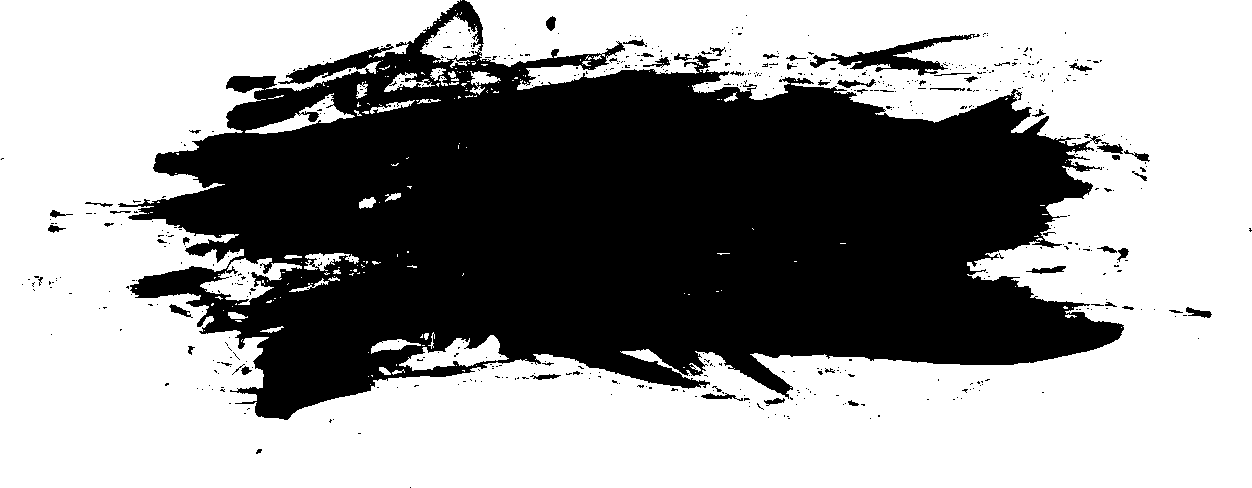
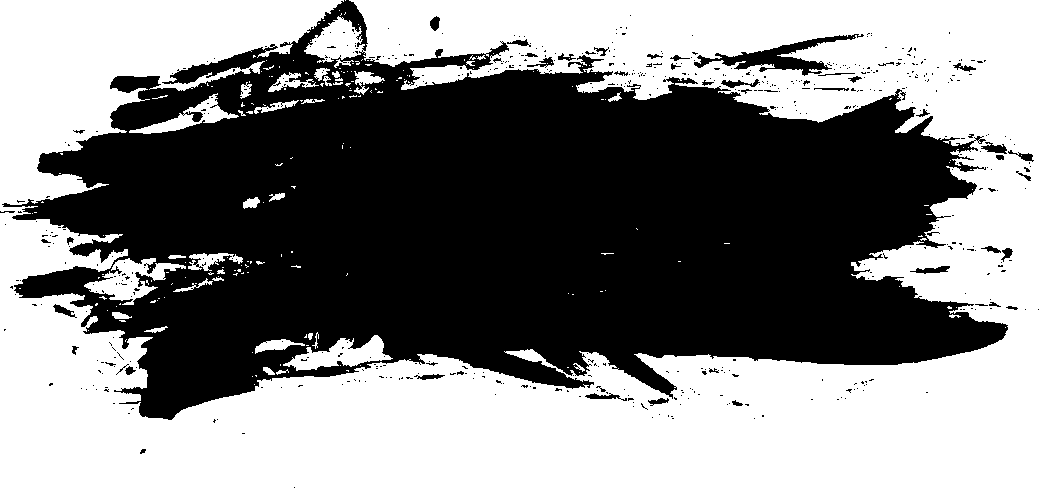
Add github and linkedin links

diff --git a/assets/stylesheets/index.css b/assets/stylesheets/index.css
@@ -1,31 +1,32 @@
-body {
-    margin: 0;
-    width: 100%;
-    height: 100vh;
-    font-family: 'Titillium Web', sans-serif;
-    color: #fff;
-    background: linear-gradient(-45deg, #ee7752, #e73c7e, #23a6d5, #23d5ab);
-    background-size: 400% 400%;
-    animation: gradientBG 15s ease infinite;
-}
-
-@keyframes gradientBG {
-    0% {
-        background-position: 0% 50%;
-    }
-    50% {
-        background-position: 100% 50%;
-    }
-    100% {
-        background-position: 0% 50%;
-    }
-}
+@import url(https://fonts.googleapis.com/css?family=PT+Sans);
 
 main {
     position: relative;
     height: 100vh;
     display: flex;
     justify-content: center;    
+}
+
+.link {
+  display: block;
+  cursor: pointer;
+  width: 100px;
+  height: 100px;
+  position: absolute;
+}
+
+.github {        
+  left: 133px;
+  top: 86px;
+}
+
+.linkedin {
+  font-family: "Arial"; 
+  left: 303px;
+  top: 291px;
+  font-size: 2.5em;
+  font-weight: 900;
+  color: white; 
 }
 
 .abacus-frame {
@@ -44,23 +45,38 @@ main {
         -ms-transform: translateY(-50%);
          -o-transform: translateY(-50%);
             transform: translateY(-50%);
+  animation-duration: 3s;
+  animation-name: slidein;
+}
+
+@keyframes slidein {
+  from {
+    right: -300px;
+  }
+
+  to {
+    right: 0;
+  }
 }
 
 .highlight {
     font-size: 15em;
     background: url(../images/brush-stroke.png);    
     background-repeat: no-repeat;
-    background-size: 100% 95%;
-    padding: 8px 0;
-    animation-name: brushstroke;
-    animation-duration: 4s;
+    background-size: 100% 100%;
+    padding: 8px 0;        
+    -webkit-animation: brushstroke 1.6s ease-in-out alternate;
+    -moz-animation: brushstroke 1.6s ease-in-out alternatee;
+    animation: brushstroke 1.6s ease-in-out alternate;
+    /* -webkit-animation: bigcircle 1.6s ease-in-out alternate;
+  -moz-animation: bigcircle 1.6s ease-in-out alternatee;
+  animation: bigcircle 1.6s ease-in-out alternate; */
 }
 
 @keyframes brushstroke {
-  0%   {background-size: 0 0;}
-  25%  {background-size: 25% 25%;}
-  50%  {background-size: 50% 50%;}
-  100% {background-size: 100% 95%;}
+  0%   {background-size: 0 0;}  
+  50%  {background-size: 0 0;}  
+  100% {background-size: 100% 100%;}
 }
 
 .big-circles {
@@ -93,10 +109,18 @@ main {
   opacity: 0.75;
 }
 
-.big-circle:nth-child(2) {
-  display: block;
+.big-circle:nth-child(2) {  
   top: 65%;
   left: 65%;
+  cursor: pointer;
+  opacity: 0.75;
+}
+
+.big-circle:nth-child(3) {  
+  top: 37%;
+  left: 63%;
+  width: 150px;
+  height: 150px;
   cursor: pointer;
   opacity: 0.75;
 }
@@ -132,7 +156,7 @@ main {
 }
 
 .big-cirlce-free-mode, .big-cicle-challenge {
-  position: relative;
+  position: relative;  
 }
 
 .big-cicle-challenge span {
@@ -140,6 +164,10 @@ main {
   font-size: 2.5em;
   top: 75px;
   left: 225px;
+  -webkit-animation: bigcircle 1.6s ease-in-out alternate;
+  -moz-animation: bigcircle 1.6s ease-in-out alternatee;
+  animation: bigcircle 1.6s ease-in-out alternate; 
+  cursor: pointer; 
 }
 
 .big-circle-free-mode span {
@@ -147,5 +175,9 @@ main {
   font-size: 2em;
   top: 72px;
   left: 25px;
+  -webkit-animation: bigcircle 1.6s ease-in-out alternate;
+  -moz-animation: bigcircle 1.6s ease-in-out alternatee;
+  animation: bigcircle 1.6s ease-in-out alternate;
+  cursor: pointer;
 }
 

diff --git a/assets/stylesheets/abacus.css b/assets/stylesheets/abacus.css
@@ -17,13 +17,25 @@
   text-align: center;
 }
 
+#abacus-holder {
+  position: relative;
+  height: 600px;
+}
+
+#sum-holder {
+  top: 84px;
+  height: 29px;
+  position: absolute;
+  right: 0;
+}
+
 #abacus {
   height: 449px;
   width: 1248px;
   border: 17px solid wheat;
   margin: auto;
   position: absolute;
-  top: 0;
+  top: 114px;
   left: 0;
   bottom: 0;
   right: 0;
@@ -33,10 +45,8 @@
   width: 1248px;
   margin: auto;
   position: absolute;
-  top: 550px;
-  /* right: 0; */
-  bottom: 0;
-  /* left: 0; */
+  top: 650px;  
+  bottom: 0;  
   padding: 0 30px;
   font-size: 2em;
 }
@@ -99,4 +109,72 @@
   padding-top: 7px;
   margin-left: -20px;
   border: 1px solid grey;
+}
+
+#reset {  
+  padding: 15px 25px;
+  font-size: 24px;
+  text-align: center;
+  cursor: pointer;
+  outline: none;
+  color: #fff;
+  background-color: wheat;
+  border: none;
+  border-radius: 15px 15px 0 0;
+  
+}
+
+#reset:hover {background-color: wheat}
+
+#reset:active {
+  background-color: wheat;
+  transform:translateY(4px);
+}
+
+.tooltip {    
+    position:relative;    
+}
+
+.tooltip .left {
+    min-width:200px; 
+    top:0;
+    right:5%;
+    margin-right:20px;   
+    padding:10px 20px;
+    color:#444444;
+    background-color:#EEEEEE;
+    font-weight:normal;
+    font-size:13px;
+    border-radius:8px;
+    position:absolute;
+    z-index:99999999;
+    box-sizing:border-box;
+    box-shadow:0 1px 8px rgba(0,0,0,0.5);
+    visibility:hidden; opacity:0; transition:opacity 0.8s;
+}
+
+.tooltip:hover .left {
+    visibility:visible; opacity:1;
+}
+
+.tooltip .left i {
+    position:absolute;
+    top:50%;
+    left:100%;
+    margin-top:-12px;
+    width:12px;
+    height:24px;
+    overflow:hidden;
+}
+
+.tooltip .left i::after {
+    content:'';
+    position:absolute;
+    width:12px;
+    height:12px;
+    left:0;
+    top:50%;
+    transform:translate(-50%,-50%) rotate(-45deg);
+    background-color:#EEEEEE;
+    box-shadow:0 1px 8px rgba(0,0,0,0.5);
 }

diff --git a/index.html b/index.html
@@ -3,26 +3,20 @@
   <head>
     <meta charset="utf-8" />
     <title>Abacus Fun</title>
-    <link
-      href="https://fonts.googleapis.com/css?family=Titillium+Web"
-      rel="stylesheet"
-    />
-    <link
-      rel="stylesheet"
-      type="text/css"
-      href="./assets/stylesheets/reset.css"
-    />
-    <link
-      rel="stylesheet"
-      type="text/css"
-      href="./assets/stylesheets/main.css"
-    />
+    <link rel="stylesheet" href="https://fonts.googleapis.com/css?family=Titillium+Web" />
+    <link rel="stylesheet" type="text/css" href="./assets/stylesheets/reset.css" />
+    <link rel="stylesheet" type="text/css" href="./assets/stylesheets/index.css" />
   </head>
 
   <body>
     <main>        
-        <div class="abacus-frame"></div>
+        <div class="abacus-frame">
+          <a class="link github" href="https://github.com/resant18/abacus" target="_blank"></a>
+          <a class="link linkedin" href="https://www.linkedin.com/in/renata-santoso" target="_blank">in</a>
+        </div>
+        
         <span class="highlight">Abacus</span>
+        
         <div class="big-circles">
             <div class="big-circle-free-mode">
               <a class="big-circle" href="freemode.html"></a>
@@ -32,7 +26,9 @@
               <a class="big-circle" href="challenge.html"></a>
               <span>Challenge</span>
             </div>
-        </div>
+            <div class="big-circle"></div>            
+        </div>        
+
     </main>        
 </body>
 

diff --git a/challenge.html b/challenge.html
@@ -33,11 +33,20 @@
         <br />
         <span id="message"> </span>
       </div>
-      <div id="sum-holder">
-        <button id="reset" onclick="reset()">RESET</button>
-      </div>
-      <div id="abacus-holder">
-        <table id="abacus">
+      
+      <div id="abacus-holder">  
+        <div class="btn btn-primary tooltip">
+          <div id="sum-holder">
+            <button id="reset" onclick="reset()"></button>
+          </div>
+          <div class="left">
+              <p>Press this button to reset the abacus</p>
+              <i></i>
+          </div>
+        </div>
+
+
+        <table id="abacus">                   
           <tr>
             <td
               data-value="50000000"

diff --git a/dist/bundle.js b/dist/bundle.js
@@ -102,8 +102,12 @@ var sums = [];
 
 function main() {
   initializeBeads();
+  generateMathQuestion(2, 1); // 0 = substraction, 1 = addition
+}
 
-  generateMathQuestion(1, 1); // 0 = substraction, 1 = addition
+function reset() {
+  resetBeads();
+  generateMathQuestion(2, 1); // 0 = substraction, 1 = addition
 }
 
 function initializeBeads() {
@@ -132,6 +136,16 @@ function moveBead(e) {
   } else {
     setValue(this);
   }
+}
+
+function resetBeads() {
+  for (var i = 0; i < beads.length; i++) {
+    bead = beads[i];
+    if (!isSeparator(bead)) {
+      clearValue(bead);
+    }
+  }
+  document.getElementById("total").innerHTML = "";
 }
 
 function clearValue(bead) {

diff --git a/assets/stylesheets/reset.css b/assets/stylesheets/reset.css
@@ -43,3 +43,27 @@ input[type="submit"] {
   display: block;
   clear: both;
 }
+
+body {
+    margin: 0;
+    width: 100%;
+    height: 100vh;
+    font-family: 'Titillium Web', sans-serif;
+    color: #fff;
+    background: linear-gradient(-45deg, #ee7752, #e73c7e, #23a6d5, #23d5ab);
+    background-size: 400% 400%;
+    animation: gradientBG 15s ease infinite;
+}
+
+@keyframes gradientBG {
+    0% {
+        background-position: 0% 50%;
+    }
+    50% {
+        background-position: 100% 50%;
+    }
+    100% {
+        background-position: 0% 50%;
+    }
+}
+
